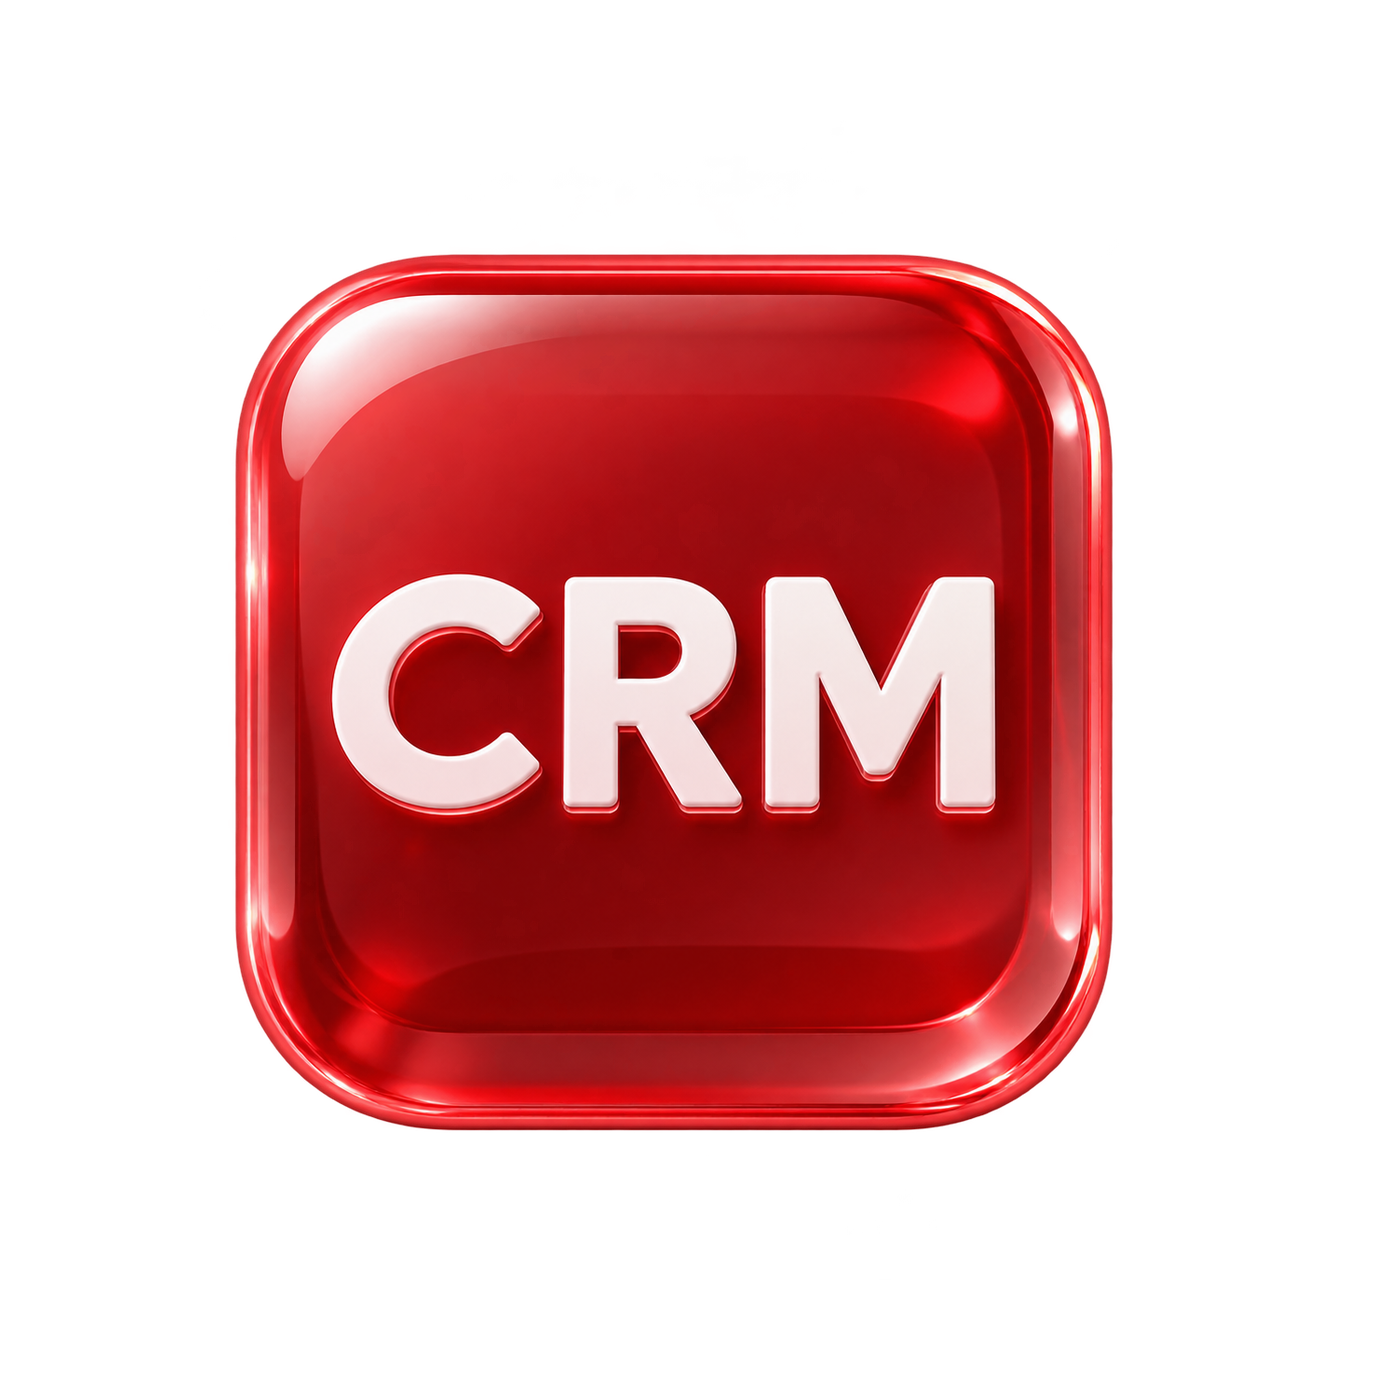
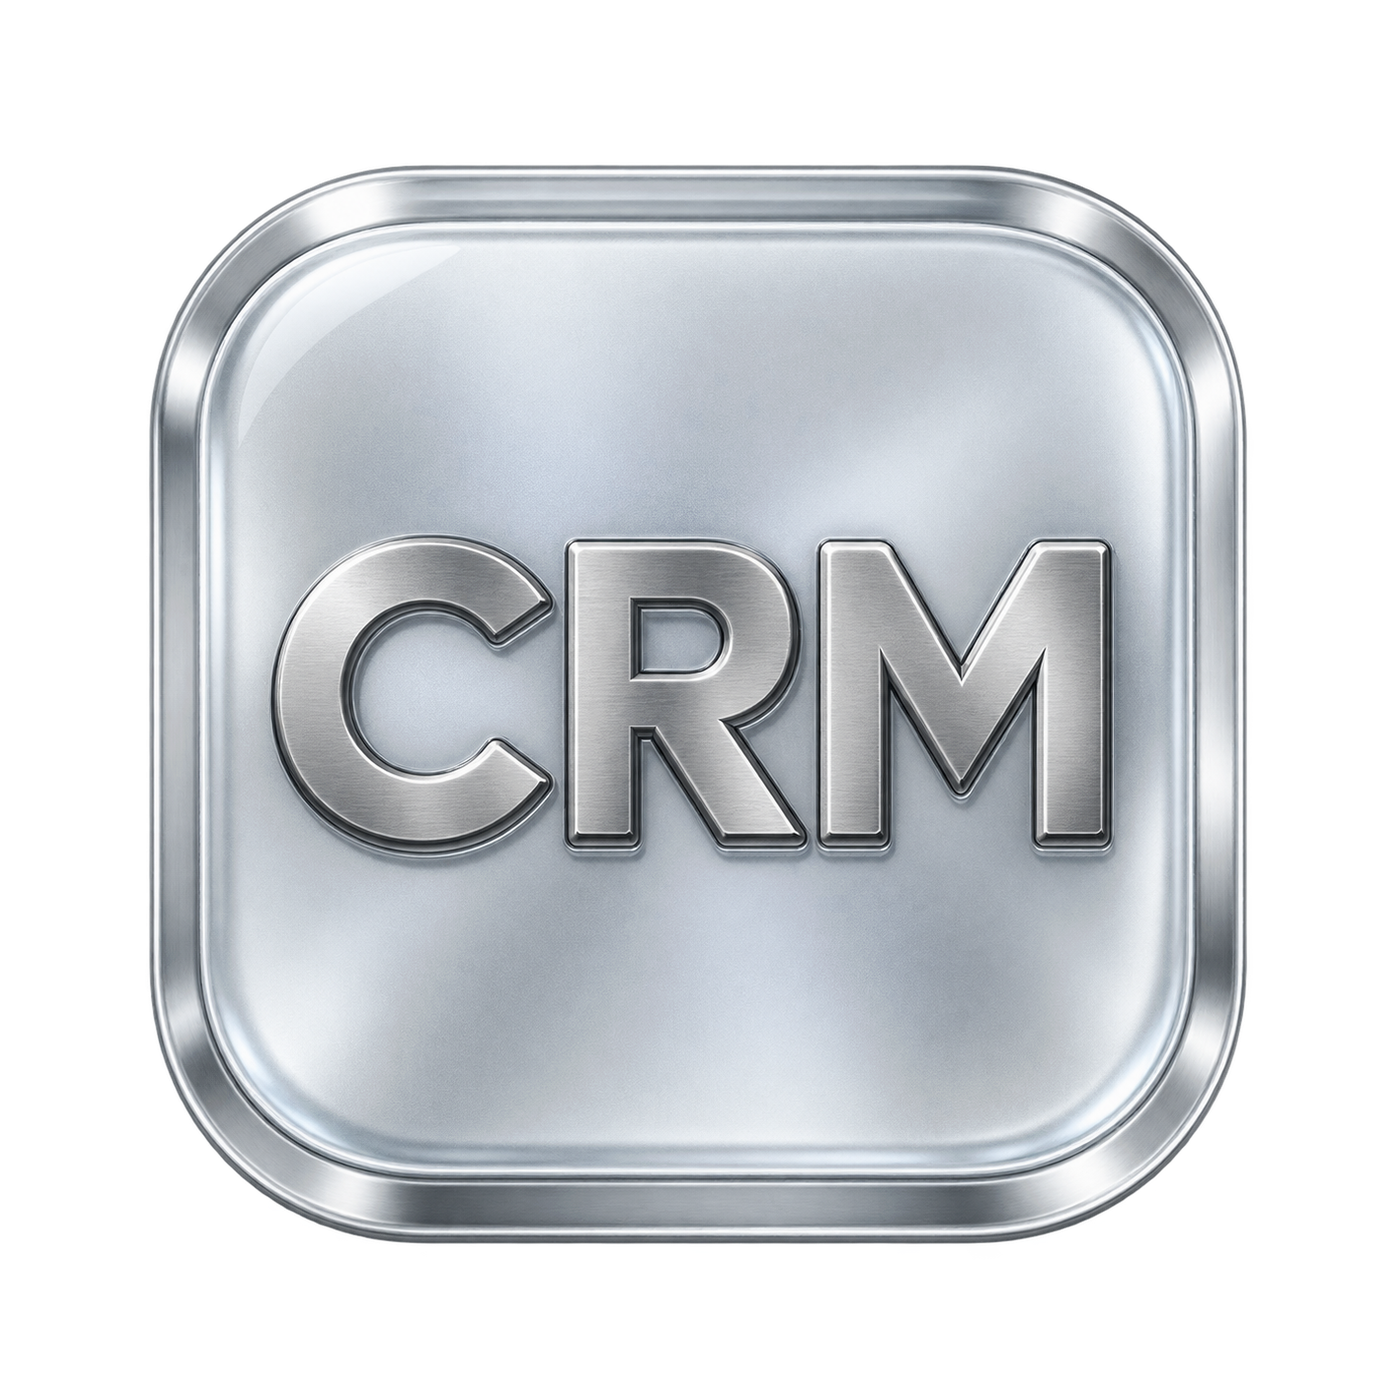
Unify silver Equisoft acronym tiles

diff --git a/app/globals.css b/app/globals.css
@@ -1050,11 +1050,22 @@ main {
 }
 
 .equisoft-ecosystem-label {
+  display: inline-flex;
+  width: fit-content;
+  align-items: center;
+  gap: 7px;
   color: var(--ink);
   font-size: 0.72rem;
   font-weight: 650;
   letter-spacing: 0.01em;
   line-height: 1.2;
+}
+
+.equisoft-ecosystem-mark {
+  display: block;
+  width: 20px;
+  height: 20px;
+  filter: drop-shadow(0 3px 4px rgb(158 27 30 / 12%));
 }
 
 .equisoft-ecosystem-intro > p:not(.equisoft-ecosystem-label) {
@@ -1087,7 +1098,7 @@ main {
   width: 100%;
   min-width: 0;
   padding: 6px 0 18px;
-  grid-template-columns: repeat(5, minmax(0, 1fr));
+  grid-template-columns: repeat(4, minmax(0, 1fr));
   gap: clamp(14px, 3vw, 30px);
 }
 
@@ -1097,57 +1108,26 @@ main {
   margin-top: 24px;
 }
 
-.equisoft-brand-mark,
 .equisoft-product {
   position: relative;
   display: flex;
   width: 100%;
   min-width: 0;
-  min-height: 156px;
+  min-height: 164px;
   overflow: visible;
   padding: 6px;
   flex-direction: column;
   justify-content: center;
 }
 
-.equisoft-brand-mark {
-  align-items: center;
-  justify-content: center;
-  gap: 6px;
-  background: transparent;
-  color: #b62c2b;
-}
-
-.equisoft-brand-mark img {
-  position: relative;
-  z-index: 1;
-  width: clamp(108px, 9vw, 132px);
-  height: clamp(108px, 9vw, 132px);
-  padding: 16px;
-  border: 1px solid rgb(255 255 255 / 82%);
-  border-radius: 24px;
-  background: linear-gradient(145deg, rgb(255 236 234 / 92%), rgb(228 88 83 / 86%));
-  box-shadow:
-    0 10px 16px rgb(158 27 30 / 13%),
-    inset 0 1px 0 rgb(255 255 255 / 76%),
-    inset 0 -8px 14px rgb(150 27 30 / 10%);
-}
-
-.equisoft-brand-mark > span:last-child {
-  position: relative;
-  z-index: 1;
-  font-size: 0.75rem;
-  font-weight: 650;
-  letter-spacing: -0.03em;
-}
-
 .equisoft-acronym-image {
   display: block;
-  width: min(100%, 164px);
+  width: min(100%, 150px);
+  aspect-ratio: 1;
   height: auto;
   margin: 0 auto;
   object-fit: contain;
-  filter: drop-shadow(0 10px 14px rgb(116 24 28 / 13%));
+  filter: drop-shadow(0 9px 13px rgb(66 74 84 / 14%));
   transform: translateY(-1px);
   transition: transform 220ms ease, filter 220ms ease;
 }
@@ -1162,13 +1142,13 @@ main {
 }
 
 .equisoft-product:hover .equisoft-acronym-image {
-  filter: drop-shadow(0 13px 17px rgb(116 24 28 / 18%));
+  filter: drop-shadow(0 12px 16px rgb(66 74 84 / 19%));
   transform: translateY(-3px) scale(1.02);
 }
 
 @media (min-width: 760px) and (max-width: 1099px) {
   .equisoft-product-grid {
-    grid-template-columns: repeat(3, minmax(0, 1fr));
+    grid-template-columns: repeat(4, minmax(0, 1fr));
   }
 }
 

diff --git a/app/page.tsx b/app/page.tsx
@@ -206,7 +206,17 @@ export default function Home() {
             </p>
             <div className="equisoft-ecosystem">
               <div className="equisoft-ecosystem-intro">
-                <p className="equisoft-ecosystem-label">Equisoft ecosystem</p>
+                <p className="equisoft-ecosystem-label">
+                  <Image
+                    className="equisoft-ecosystem-mark"
+                    src="/equisoft-pyramid-glass.svg"
+                    alt=""
+                    width={24}
+                    height={24}
+                    sizes="24px"
+                  />
+                  <span>Equisoft ecosystem</span>
+                </p>
                 <p>
                   Six years designing across fintech, insurance, and AI
                   adoption—moving through the product ecosystem with an
@@ -225,16 +235,6 @@ export default function Home() {
               </div>
               <div className="equisoft-product-rail" aria-label="Equisoft product areas">
                 <div className="equisoft-product-grid">
-                  <div className="equisoft-brand-mark" aria-label="Equisoft">
-                    <Image
-                      src="/equisoft-pyramid-glass.svg"
-                      alt=""
-                      width={96}
-                      height={96}
-                      sizes="96px"
-                    />
-                    <span>Equisoft</span>
-                  </div>
                   {equisoftProducts.map((product) => (
                     <div className="equisoft-product" key={product.label} aria-label={product.label}>
                       <Image
@@ -243,7 +243,7 @@ export default function Home() {
                         alt={product.label}
                         width={1400}
                         height={1400}
-                        sizes="(min-width: 1100px) 160px, (min-width: 760px) 24vw, 36vw"
+                        sizes="(min-width: 1100px) 168px, (min-width: 760px) 24vw, 36vw"
                       />
                       <span className="equisoft-product-description">{product.description}</span>
                     </div>
